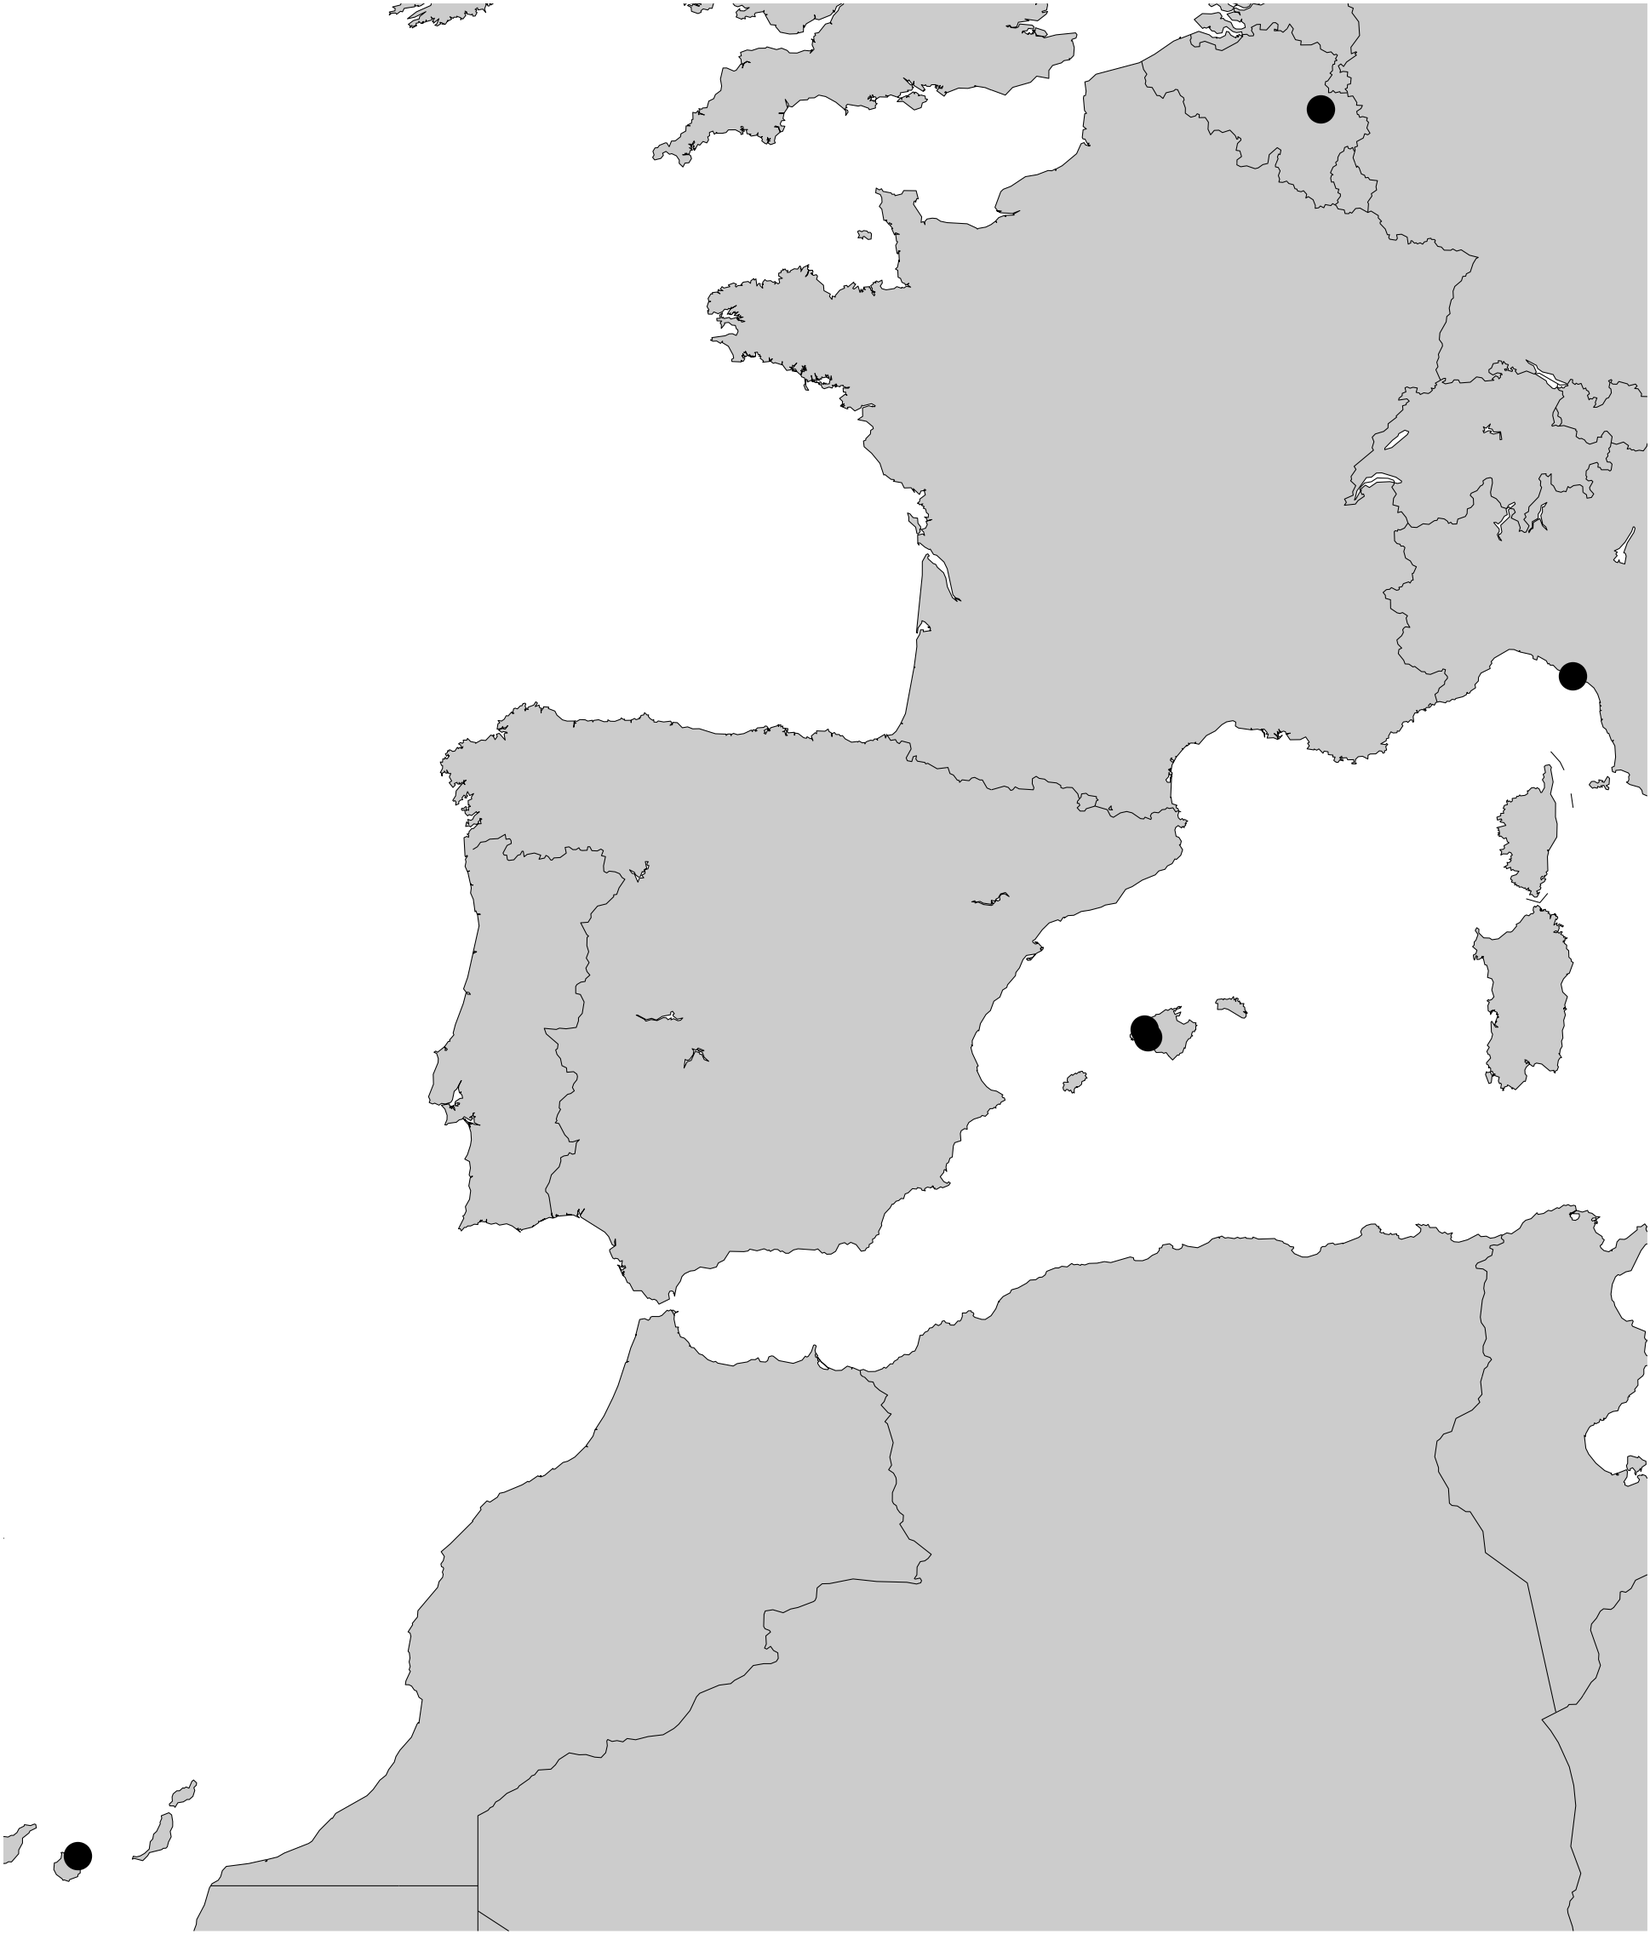
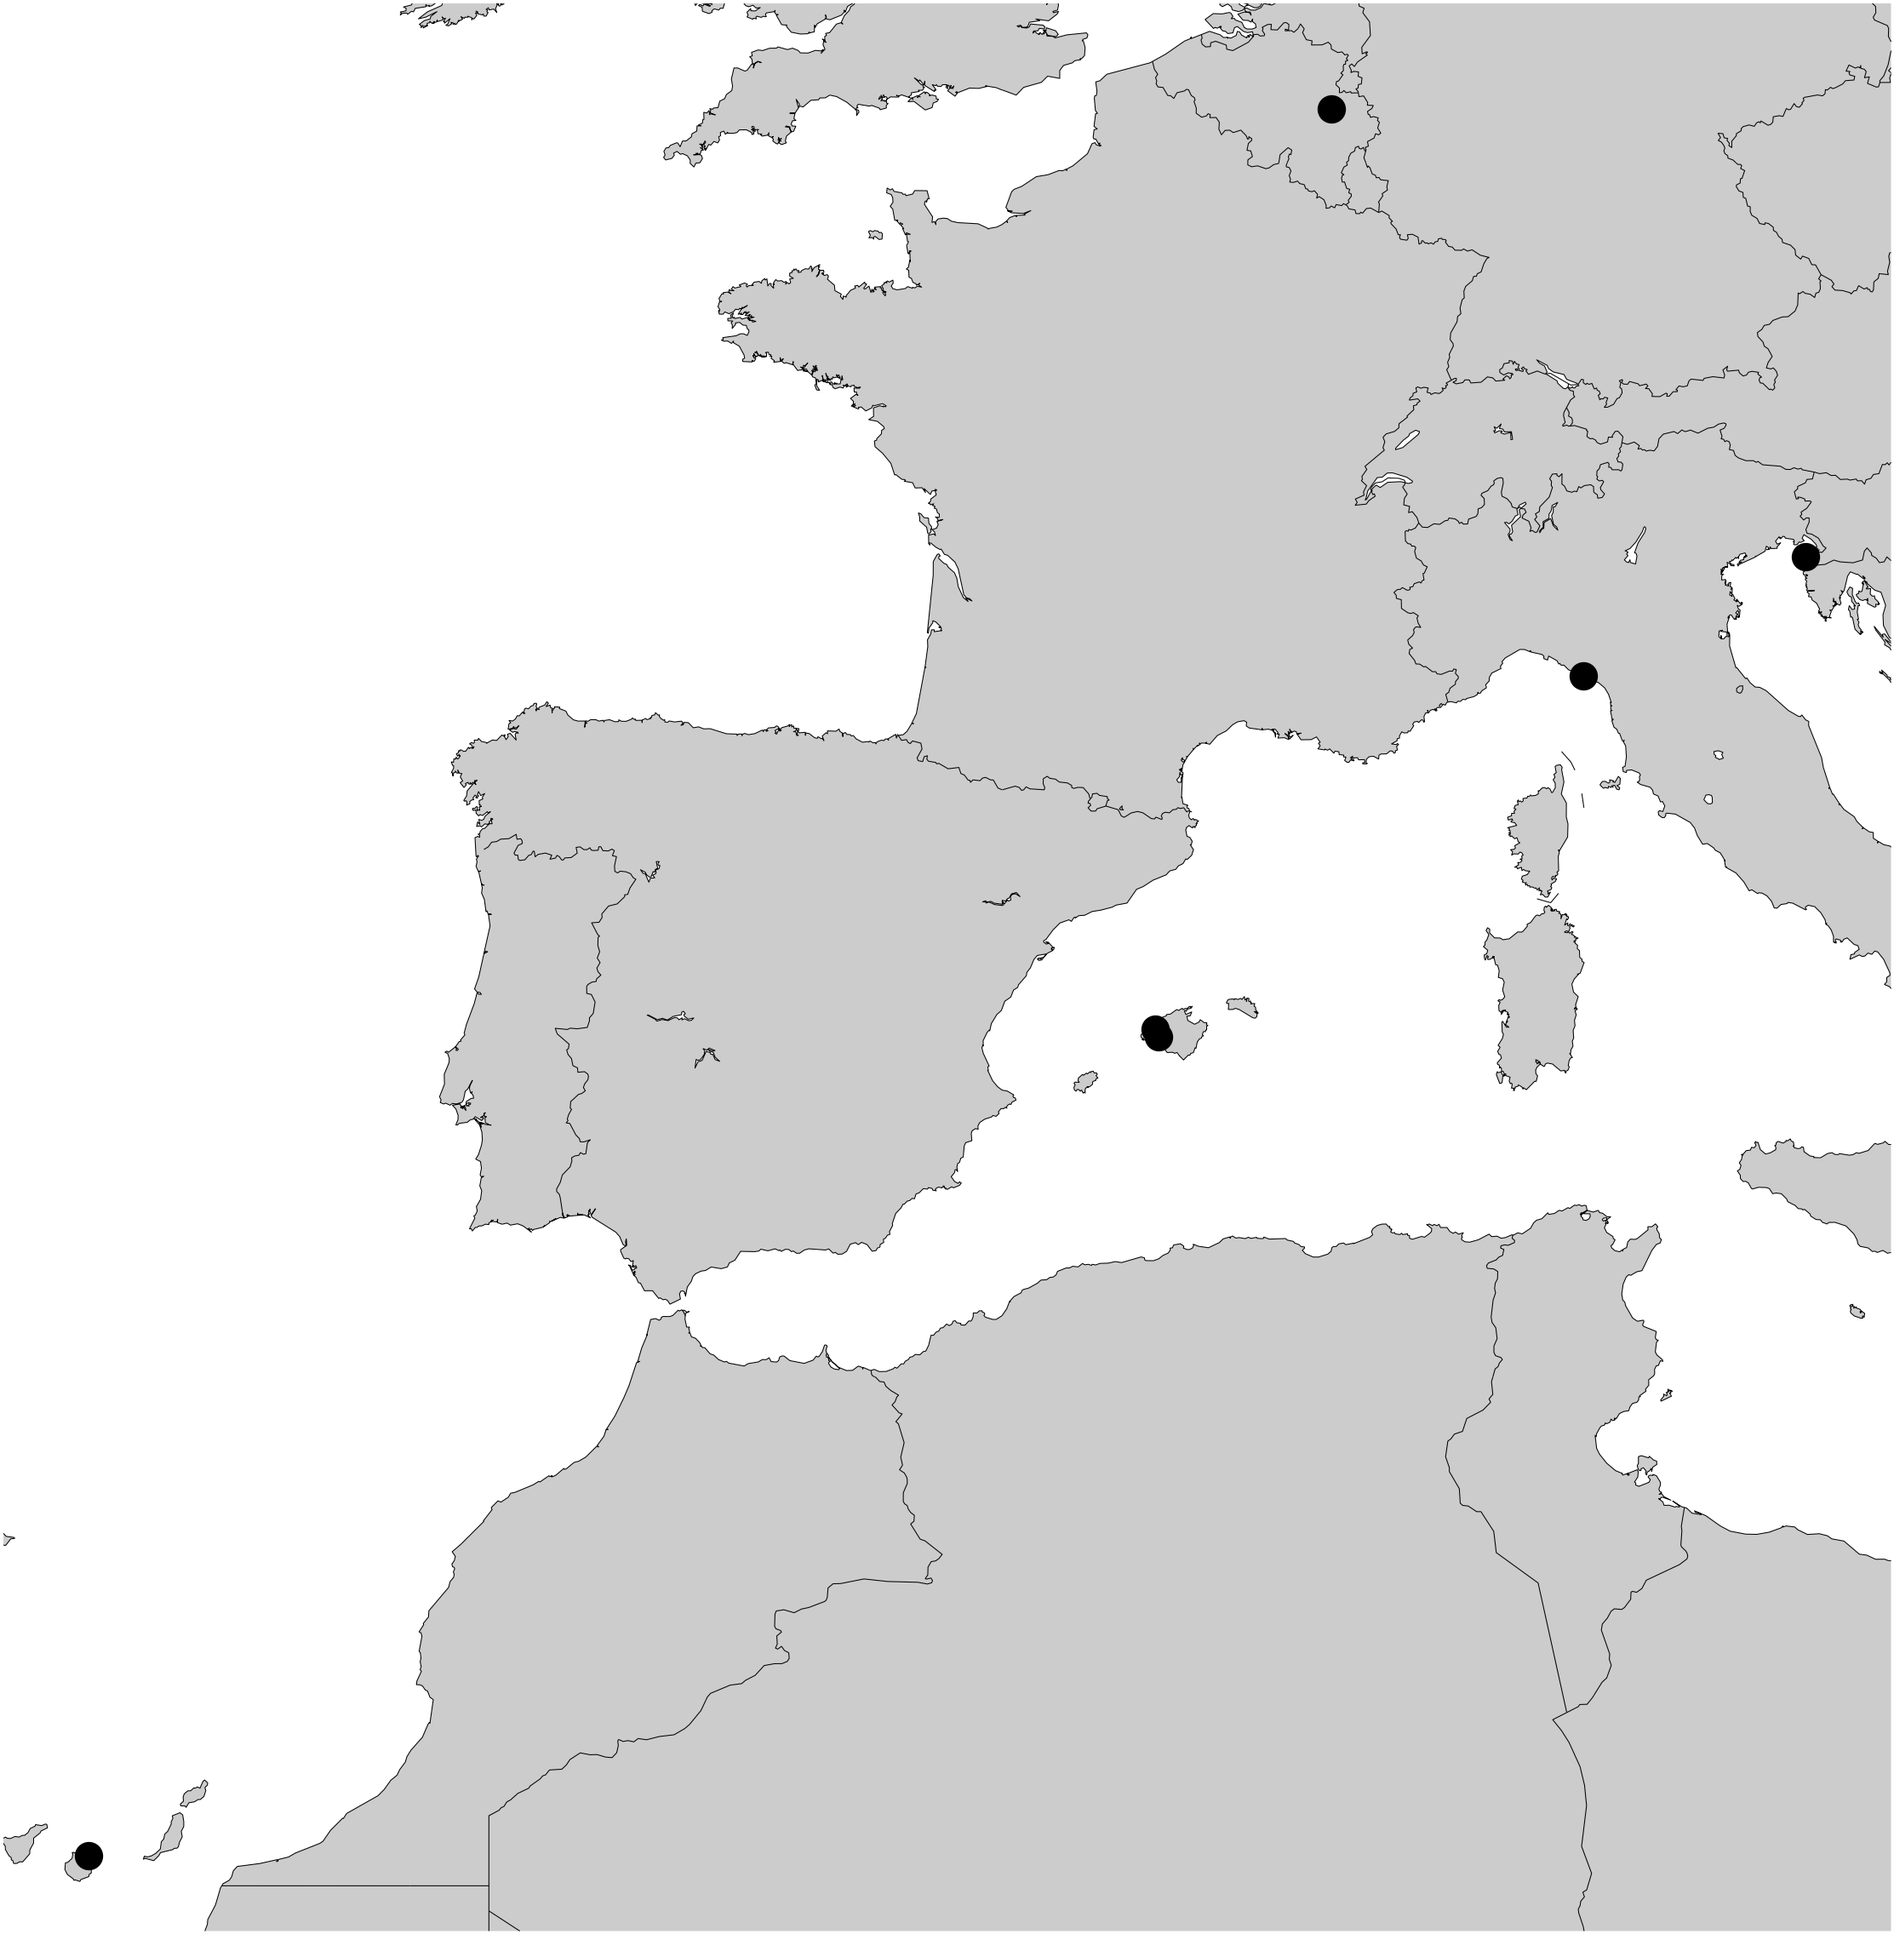
employment map

diff --git a/CV/Ctroupin_curriculum.tex b/CV/Ctroupin_curriculum.tex
@@ -78,7 +78,7 @@ urlcolor=CVblue}
 
 \begin{tikzpicture}
 
-    \node[anchor=south west,inner sep=0cm] (image) at (0,0) {\includegraphics[width=.3\textwidth]{employment_map2.png}};
+    \node[anchor=south west,inner sep=0cm] (image) at (0,0) {\includegraphics[width=.3\textwidth]{employment_map.png}};
     \begin{scope}[x={(image.south east)},y={(image.north west)}]
 %    \draw[help lines,xstep=.1,ystep=.1] (0,0) grid (1,1);
 %    \foreach \x in {0,1,...,9} { \node [anchor=north] at (\x/10,0) {0.\x}; }
